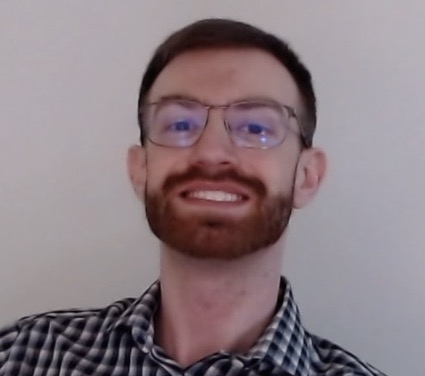
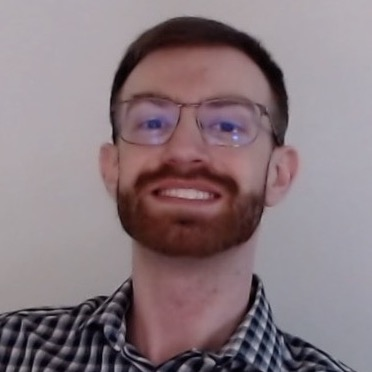
FIxed profile pic size

Changed region(s): [[0.0, 0.0296, 0.9462, 1.0], [0.5618, 0.4731, 0.6505, 0.5618], [0.4731, 0.2661, 0.5027, 0.3548]]

diff --git a/dist/output.css b/dist/output.css
@@ -568,10 +568,6 @@ video {
   max-width: max-content;
 }
 
-.max-w-sm {
-  max-width: 24rem;
-}
-
 .flex-col {
   flex-direction: column;
 }
